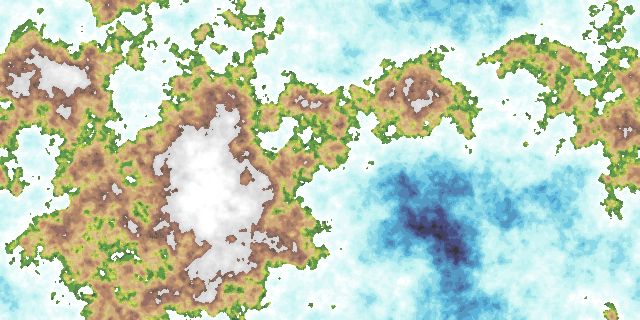
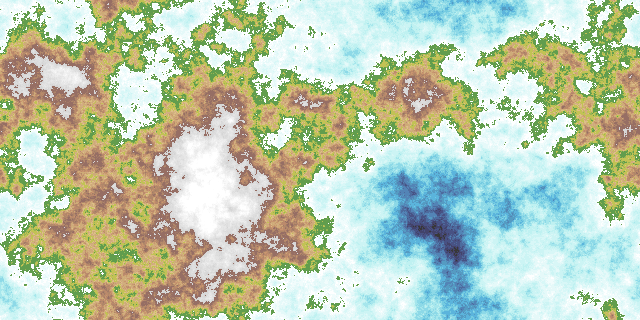
Regenerate README header image at 48 percent ocean
Render flat-cartographic-png with seed 42, 640x320, 10,000 iterations,
wrapping, and the new 48 percent ocean default. The image keeps the
previous header's lightened colours through a per-colour lookup and is
stored as an exact-palette 8-bit PNG; it is interim until the terrain
palette replaces it.

Add CLAUDE.md with agent guidance, including the derived sea-level
convention.

Closes #19

diff --git a/CLAUDE.md b/CLAUDE.md
@@ -1,0 +1,130 @@
+# CLAUDE.md
+
+This file provides guidance to Claude Code (claude.ai/code) when working with code in this repository.
+
+`AGENTS.md` holds the authoritative project rules; this file summarizes them and
+adds architecture notes. Read `AGENTS.md` when the two disagree.
+
+## Commands
+
+```sh
+go test ./...                                   # required before completing any change
+go test ./domains/ -run TestBiomeTableCoversEveryClimate   # single test
+go test ./pipelines/... -run TestRunProducesDeterministicPNG
+gofmt -w <changed files>                        # format every changed Go file
+go mod tidy                                     # after dependency changes; review go.mod and go.sum
+```
+
+Run a pipeline end to end (all `mappe` subcommands require `--output`):
+
+```sh
+go run ./cmd/mappe                              # list pipelines
+go run ./cmd/mappe flat-terrain-png --seed 42 --width 640 --height 320 \
+  --iterations 10000 --wrap --output /tmp/flat-terrain.png
+go run ./cmd/olsson -seed 42 > world.json       # normalized height map as JSON
+go run ./cmd/mappe version                      # Mappe core version
+```
+
+`go.mod` declares Go 1.22.12 even when a newer toolchain is installed locally;
+do not use language or standard-library features newer than that.
+
+## Architecture
+
+The repository is a three-stage pipeline architecture. Packages are layered and
+the dependency direction is strict:
+
+```
+generators  ->  domains  <-  renderers
+        \                   /
+         \                 /
+           pipelines  ->  cmd/mappe
+```
+
+- **`domains/`** is the shared vocabulary and the only package generators and
+  renderers have in common. It owns immutable, validated value types
+  (`NormalizedHeightMap`, `HeightField`, `EnvironmentalMap`) plus the stable
+  elevation, heat, moisture, climate, and 27-value terrain enumerations
+  migrated from `wgva`. Constructors validate and defensively copy; accessors
+  return copies; out-of-range coordinate access panics.
+- **Generators** (`olsson/`, `internal/generators/flat/`) turn a `Config` into a
+  domain object. Every generator exposes both `GenerateNormalizedHeightMap` and
+  `GenerateHeightField`; the height-field variant is where the generator
+  *derives* its `domains.GridTopology` (Olsson: east-west wrap only, distinct
+  polar edges; flat: both axes from `Config.Wrap`). Downstream stages must read
+  topology from the field rather than take duplicate wrapping flags.
+- **Renderers** (`renderers/*`) take a domain object plus an optional renderer
+  `Config` and write an external format to an `io.Writer`. They never generate.
+- **Pipelines** (`pipelines/<name>/`) are the public integration boundary. Each
+  exposes a single `Run(w io.Writer, generatorConfig, rendererConfig) error` and
+  wraps every stage error as `"<pipeline-name>: <stage>: %w"` so a failure names
+  the stage; tests assert on that. `internal/` generators are reachable by
+  callers only through a named pipeline.
+- **`cmd/mappe`** is a Cobra tree with one subcommand per pipeline. It owns flag
+  defaults, converts `--seed` into `rand.NewPCG(uint64(seed), 0)`, and creates
+  the output file. Commands hold no generation logic.
+
+### Value conventions
+
+- All physical values are normalized `float64` in `[0, 1]`. `0.5` is the
+  neutral value for heat, moisture, basin, and volcanic tendency; signed
+  source-model values are mapped linearly onto that range.
+- Sea level is **not** `0.5`. Generators min-max normalize, so elevation
+  boundaries come from a `domains.ElevationLevels` value (absolute elevations for
+  abyss, shelf, sea level, upland, highland, mountain) produced by a swappable
+  stage; the default is `internal/levels/percentile`, which checks tile
+  percentages (default 48% ocean) against the histogram. One pixel is one tile.
+- Grids are finite, Cartesian, and row-major (`y*width + x`).
+- Terrain, climate, and elevation IDs are serialized domain values: their
+  numeric IDs and `String()` names are stable and must not be renumbered.
+  `TerrainInlandSea` and `TerrainLake` hold reserved IDs but are not yet
+  produced by the classifier.
+- `ClassificationConfig.Validate` enforces the ordering that keeps every
+  declared band and terrain rule reachable; the ordered classifier in
+  `domains/terrain.go` (ocean depth, ice, volcanic, elevated, wetland, coast,
+  then the climate-cover biome table) preserves the source precedence, and
+  `TestTerrainRulesPreserveSourcePrecedence` guards it.
+
+## Go conventions
+
+- Errors are declared as constants via `internal/cerrs.Error`, package-prefixed
+  (`"olsson: width must be twice height"`). Library code returns errors; it does
+  not log or exit.
+- Determinism is the contract. Configs carry a caller-owned `math/rand/v2`
+  `rand.Source`; never use `math/rand`, wall-clock time, or process-global
+  randomness, and avoid mutable package-level state.
+- Every Go file carries the AGPL-3.0 header block used throughout the tree.
+- Prefer the standard library; new dependencies need narrow justification.
+- Keep generator-specific code and its tests in one package. Share code only
+  after two accepted generators demonstrate the same need.
+
+## Tests
+
+- Use fixed seeds. Tests should distinguish the intended behavior from plausible
+  wrong implementations, especially at coordinate, wrapping, and range
+  boundaries.
+- Add golden fixtures only when the serialized or rendered bytes are themselves
+  the contract; the current pipeline tests instead assert determinism by
+  rendering twice and comparing.
+- When visual output changes, inspect representative PNGs in addition to running
+  the tests.
+
+## Migration workflow
+
+The repository is in an inventory-and-review phase. Every source project in the
+`README.md` table has a linked GitHub issue that is its decision record.
+
+- Do not import code from a source project until its issue records an explicit
+  **Include** decision.
+- When importing, preserve the license, attribution, deterministic behavior,
+  useful tests, and documentation; place preserved notices in `docs/licenses/`.
+- Record the migration boundary and anything intentionally omitted in the review
+  issue, and update the README inventory when a project's status changes.
+- Do not publish private repository names or metadata here without authorization.
+
+## Delivery
+
+- Work directly on `main` unless asked otherwise. After the tests pass, commit
+  and push to `origin/main` unless the user says not to.
+- Assign every issue and pull request to `mdhender` at creation
+  (`gh issue create --assignee @me`, `gh pr create --assignee @me`).
+- Keep generated artifacts (PNGs, JSON output) out of version control.
